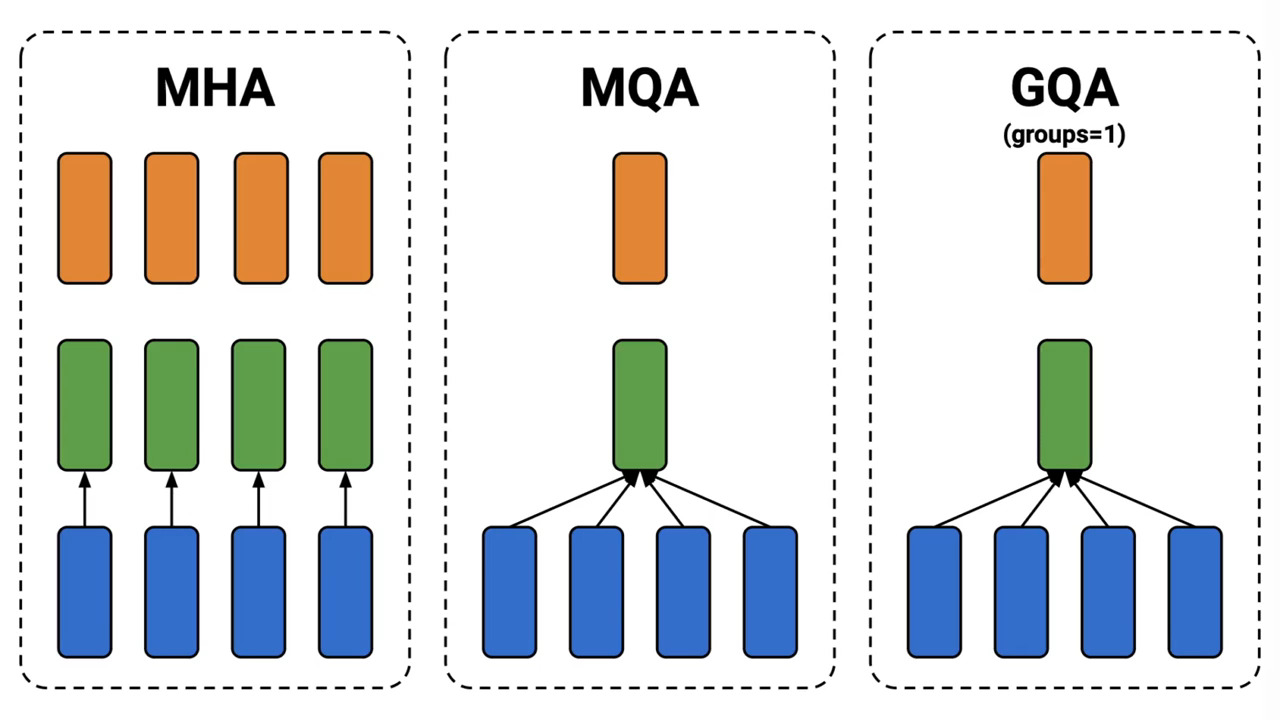
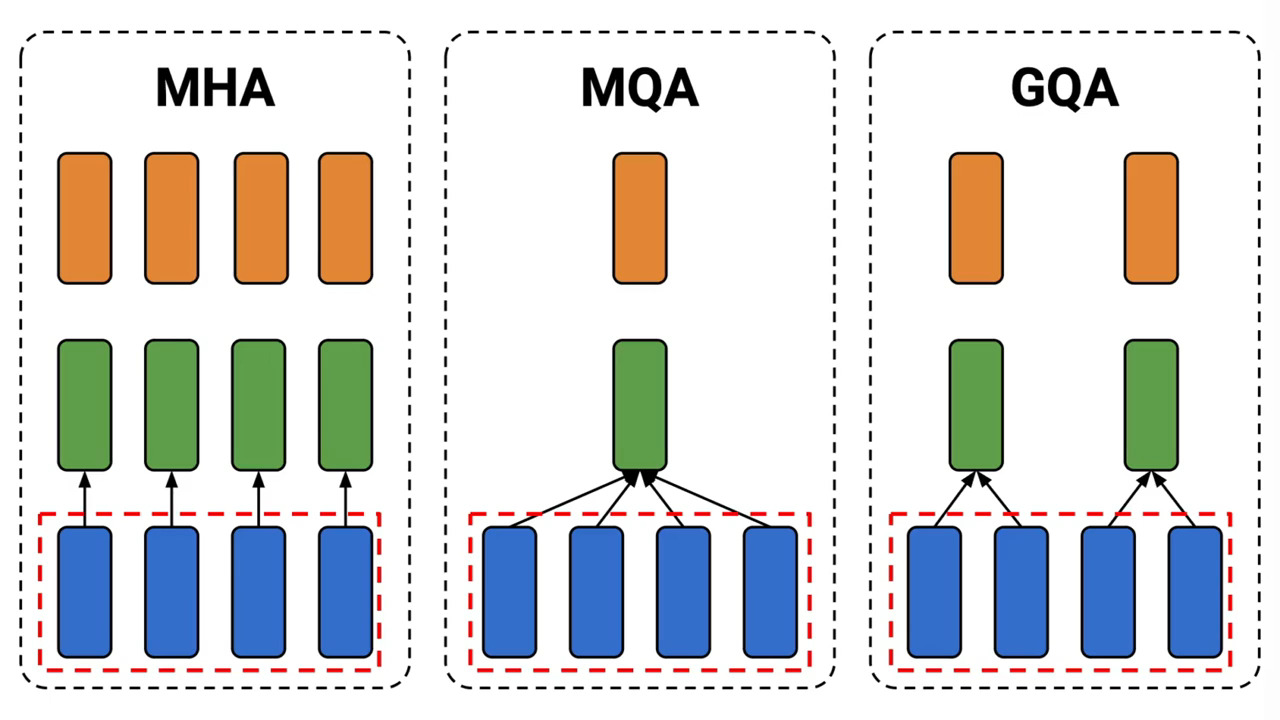
second content iteration

diff --git a/docs/personal_notes.md b/docs/personal_notes.md
@@ -11,8 +11,15 @@
 
 # **Anatomy of a Real-Life Transformer**
 ![](../assets/transformer.png)
+- **Terminology -**
+    - *"Transformer Block" - Each one of the Nx modules*
+    - *"Transformer Model" - A stack of the Transformer Blocks with an embedding layer and output head.*
+
+
 - Useful reference: Letitia - https://www.youtube.com/watch?v=BprirYymXrg
 
+
+## Attention -> Trasnformer Block
 After MHA, there is  a projection called W_O that merges the information from the various heads.
 Simply concatenating these $h$ outputs produces a tensor of shape $[B, L, h \cdot d_k] = [B, L, d_{\text{model}}]$. However, without a linear projection:
 1. **Head Isolation:** Information extracted by head $i$ remains trapped in slice $[i \cdot d_k : (i+1) \cdot d_k]$ and cannot interact with representations learned by head $j$.
@@ -28,7 +35,7 @@ Where:
 * $W^O \in \mathbb{R}^{d_{\text{model}} \times d_{\text{model}}}$
 * Output Tensor $\in \mathbb{R}^{B \times L \times d_{\text{model}}}$
 
-## Concrete Tensor Example
+### Concrete Tensor Example
 Consider a Llama 3 8B configuration:
 * Hidden dimension $d_{\text{model}} = 4096$
 * Query heads $h = 32$
@@ -39,7 +46,7 @@ Consider a Llama 3 8B configuration:
 2. Concatenating across 32 heads yields $[2, 512, 32 \times 128] = [2, 512, 4096]$.
 3. Multiplying by $W^O \in \mathbb{R}^{4096 \times 4096}$ mixes feature dimensions across all heads, outputting a tensor of $[2, 512, 4096]$ ready to be added back to the residual stream.
 
-## Residual
+### Residual
 In early deep networks, layers transformed representations sequentially ($x^{(l)} = f(x^{(l-1)})$). In ultra-deep architectures (80+ layers), this creates severe vanishing/exploding gradient problems and forces each layer to re-learn identity mappings if no transformation is needed.
 
 
@@ -61,28 +68,28 @@ $$\frac{\partial \mathcal{L}}{\partial x^{(0)}} = \frac{\partial \mathcal{L}}{\p
 The identity term $I$ guarantees that gradients flow backwards through all $L$ layers directly without decaying, eliminating the vanishing gradient wall regardless of depth.
 
 
-## Normalization
+### Normalization
 
-### Rationale: Stabilization of Activation Distributions
+#### Rationale: Stabilization of Activation Distributions
 As updates $\Delta x^{(l)}$ are repeatedly added to the residual stream, the variance of the hidden activations scales monotonically with depth ($Var(x^{(l)}) \approx Var(x^{(0)}) + \sum Var(\Delta x)$). Without normalization, deep activations explode, pushing Softmax inputs into saturated zero-gradient regimes.
 
 #TODO - brief LayerNorm explanation
 
 
-### Evolution: Post-LN vs. Pre-LN
+#### Evolution: Post-LN vs. Pre-LN
 * **Post-LayerNorm (Original Transformer):** 
   $$x^{(l)} = \text{LN}(x^{(l-1)} + f(x^{(l-1)}))$$
   Gradients passing through the normalization operator in the main residual path are scaled inversely by the norm of the activations. Near the output layer, activations are large, making early layer updates tiny. This required delicate "warm-up" learning rate schedules.
 * **Pre-LayerNorm (Modern Standard):**
   $$x^{(l)} = x^{(l-1)} + f(\text{LN}(x^{(l-1)}))$$
-  Normalization is placed exclusively on the *branch* leading into the sub-layer. The main residual path remains pure identity, enabling stable zero-warmup training of 100B+ parameter models.
+  Normalization is placed exclusively on the *branch* leading into the sub-layer. The main residual path remains pure identity, enabling stable zero-warmup training of 100B+ parameter models and larger leraning rates to be used.
+    - "the gradients are well-behaved without any exploding or vanishing for the Pre-LN Transformer both theoretically and empirically" (Xiong et al., 2020)
 
-#TODO - Dive deeper
+![](../assets/pre_post_ln.png)
+<center>(a) - Post-LN, (b) - Pre-LN</center>
 
-#TODO - add a Pre/Post LN diagram
 
-
-### RMSNorm (Root Mean Square Normalization)
+#### RMSNorm (Root Mean Square Normalization)
 Modern LLMs (Llama 3, Mistral, Qwen) replace standard LayerNorm with **RMSNorm** to improve computational speed without sacrificing variance stabilization.
 
 Standard LayerNorm computes both mean $\mu$ and variance $\sigma^2$:
@@ -100,9 +107,13 @@ Where:
 * $\gamma \in \mathbb{R}^{d_{\text{model}}}$ is a learnable scaling parameter.
 * $\epsilon$ is a small constant (e.g., $10^{-5}$) to prevent division by zero.
 
-## FFN 
+### FFN 
 
-#TODO - info about FFN and what it does
+- The attention mixes information between tokens in the sequence, and the FFN is reponsible for transforming information within the hidden dimension, for each token independently.
+- It acts as "Fact Retrieval" - you can think of $w_1$ as a memory Key matrix ($d_{\text{model}} \times d_{\text{ff}}$) where each column represents a pattern detector, $w_2$ is the memory Value matrix, where each row represents a "concept" payload to be injected back into the residual stream.
+- For example, during pre-training, when the model is repeatedly forced to predict "Paris" given "capital of France", gradient updates adjust the weights so that: 
+    - Column $i$ of $W_1$ aligns closely with the vector representation of "capital of France". 
+    - Row $i$ of $W_2$ aligns closely with the vector representation of "Paris".
 
 ### SwiGLU Activation
 - Useful References - 
@@ -110,10 +121,13 @@ Where:
 - (These functions help "dropout" in a way that is dependent on the data)
 - GELU (Gaussian Error Linear Unit) and SiLU (Sigmoid Linear Unit) are sort of a data-dependent dropout. They are derived by using x*p(x), where p(x) can be any CDF (Guassian and Sigmoid in this case). These two functions are very similar.
 
-![](../assets/swiglu.jpg)
+![](../assets/swiglu.jpg){width=2500px}
+<div align="center">
+  <img src="../assets/guessilldie.jpg" width="150">
+</div>
 
 
-### Parameter-Matching Strategy for SwiGLU
+#### Parameter-Matching Strategy for SwiGLU
 Standard ReLU FFN uses 2 matrices ($W_{\text{gate/up}}, W_{\text{down}}$) with intermediate dimension $d_{\text{ff}} = 4 d_{\text{model}}$, yielding $2 \times 4 d_{\text{model}}^2 = 8 d_{\text{model}}^2$ parameters.
 
 SwiGLU uses 3 weight matrices ($W_1, W_2, W_3$). To keep total parameters and FLOPs identical to a standard FFN, $d_{\text{ff}}$ is set to $\frac{8}{3} d_{\text{model}}$ (often rounded to the nearest multiple of 256 for GPU alignment):
@@ -123,10 +137,50 @@ $$3 \times \left( \frac{8}{3} d_{\text{model}} \times d_{\text{model}} \right) =
 In Llama 3 8B: $d_{\text{model}} = 4096 \implies d_{\text{ff}} = 14336 \approx \frac{8}{3} \times 4096$.
 
 
+### Result: Full Transformer Block
 
-## The Language Modeling Head (LM Head) & Sampling Loop
-#TODO
 
+##  Encoder-Decoder architecture and variants
+#TODO 
+### Encoder-Only (BERT)
+- Attention Mechanism: Unmasked, full Bi-Directional Self-Attention. Every token at position $i$ can attend to all other tokens at positions $j \in [1, L]$ (both past and future).
+- Objective: Masked Language Modeling (MLM) or sequence classification.
+- Primary Use Case: Producing rich contextual embeddings, feature extraction, passage reranking, and token classification.
+
+### Encoder-Decoder
+- The original paper suggested two sub-networks:
+    - Encoder which processes the input sequence concurrently, producing keys and values (run once).
+    - Decoder which generates the target sequence Y_tgt autoregressively:
+        - In the first iteration, it receives a "<START\>" token ("shifted right") and the cached K and V from the encoder, to predict the next single token: T1. In the next step, the decoder receives "<START\> T1" (its own output) and the cached K,V from the encoder, to predict T2. This goes on until the decoder itself predicts <END\>.
+        - The Encoder is essentially the "condition" upon which the decoder makes the prediction.
+### Decoder-Only (GPT/Llama)
+- Attention Mechanism: Causal (Masked) Self-Attention. Token $i$ can attend only to past and current positions $j \le i$.
+- No Cross-Attention: Eliminates the Encoder-Decoder attention sub-layer entirely. Each block contains exactly two sub-layers (Causal MHA + FFN).
+- Objective: Autoregressive Next-Token Prediction ($P(x_t \mid x_{<t})$).
+- Primary Use Case: General-purpose Large Language Models (LLMs), instruction following, and open-ended text generation.
+
+
+To enforce causality during parallel training and prefill processing, an upper-triangular masking matrix $M \in \mathbb{R}^{L \times L}$ sets future logit positions to $-\infty$ prior to the Softmax operation:
+
+$$
+M_{i,j} = \begin{cases}
+0 & \text{if } i \ge j \\
+-\infty & \text{if } i < j
+\end{cases}
+$$
+
+$$
+CausalAttention(Q, K, V) = \text{softmax}\left(\frac{Q K^T}{\sqrt{d_k}} + M\right) V
+$$
+
+When $M_{i,j} = -\infty$, $\exp(-\infty) = 0$, completely blocking information leakage from future tokens $j > i$.
+
+
+## Language Modeling and Generation #TODO
+
+### Causal Masking?
+
+### LM Head
 After passing through all $L$ Transformer blocks, the final hidden state tensor $x^{(L)} \in \mathbb{R}^{B \times L \times d_{\text{model}}}$ represents the fully contextualized sequence representations.
 
 To turn these representations into token predictions, the final vector at the last sequence position $t$, $x_t^{(L)} \in \mathbb{R}^{d_{\text{model}}}$, must be mapped to probability distributions over a discrete vocabulary $V$.
@@ -142,23 +196,57 @@ graph TD
 ```
 
 
-### 2. Softmax & Temperature Scaling
+### Softmax & Temperature Scaling
 Raw logits $z_t$ are scaled by a scalar **Temperature** parameter $T > 0$ before computing Softmax probabilities:
 
 $$P(x_{t+1} = i \mid x_{1:t}) = \frac{\exp(z_{t, i} / T)}{\sum_{j=1}^{|V|} \exp(z_{t, j} / T)}$$
 
 #### Mathematical Behavior of Temperature $T$:
-* **$T \to 0$ (Greedy / Deterministic):** The maximum logit dominates completely ($P(x_{t+1} = \arg\max z_t) \to 1$). The model always picks the single most likely token.
-* **$T = 1.0$ (Standard Softmax):** Preserves the exact learned probability distribution of the model.
-* **$T > 1.0$ (High Entropy / Creative):** Flattens the logit landscape toward a uniform distribution ($P(x_{t+1}) \to \frac{1}{|V|}$), increasing sample variance and hallucination risk.
+* **$T \to 0$ (Greedy / Deterministic):** 
+    * The maximum logit dominates completely ($P(x_{t+1} = \arg\max z_t) \to 1$). 
+    * The model always picks the single most likely token, which leads to repetitive loops, factual rigidity, and generic responses.
+* **$T = 1.0$ (Standard Softmax):**
+    * Preserves the exact learned probability distribution of the model. 
+    * Samples from the full vocabulary long-tail. Extremely low-probability tokens (e.g., typos or rare words) will eventually be sampled, degrading coherence over long generations.
+* **$T > 1.0$ (High Entropy / Creative):** 
+    * Flattens the logit landscape toward a uniform distribution ($P(x_{t+1}) \to \frac{1}{|V|}$), increasing sample variance and hallucination risk.
 
 #TODO - why would we use this?
 
 
-- #TODO Explain Encoder-Decoder architecture
+### Temperature + Nucleus (Top-$p$) Sampling Mechanics
+Nucleus Sampling dynamically adapts the candidate pool based on model confidence:
+
+```mermaid
+graph TD
+    A["Raw Logits zₜ"] --> B["1. Temperature Scaling (zₜ / T)"]
+    B --> C["2. Softmax Probability Distribution P"]
+    C --> D["3. Sort Probabilities Descending"]
+    E["Top-p Threshold (e.g., p=0.9)"] --> F["4. Truncate Cumulative Sum ≤ p"]
+    D --> F
+    F --> G["5. Renormalize Remaining Tokens"]
+    G --> H["6. Categorical Sampling"]
+```
+Dynamic Behavior: When the model is uncertain (e.g., creative writing), probabilities are distributed broadly, so Nucleus sampling keeps many tokens ($k$ is large). When the model is very confident (e.g., factual queries), $P(i_1)$ alone might be $0.92$, so for $p$=0.9, $k=1$ and it automatically acts like greedy decoding!
 
 
 
+## LLM Execution Phases
+During inference, a Decoder-Only LLM executes in two distinct operational phases that exhibit radically different computational bottlenecks and hardware performance profiles.
+### Prefill
+- Processing input prompt in parallel. This is done by  Matrix-Matrix multiplications (GEMM) of shape $[B, L_{\text{prompt}}, d_{\text{model}}] \times [d_{\text{model}}, d_{\text{out}}]$.
+- The attention mask is causal - #TODO - understand exactly why?
+
+### Decode
+- Generates output tokens serially, one step at a time ($L_{\text{step}} = 1$). The output token from step $t$ becomes the input token for step $t+1$.
+- This is done by Matrix-Vector multiplications (GEMV) of shape $[B, 1, d_{\text{model}}] \times [d_{\text{model}}, d_{\text{out}}]$.
+- Memory (short) Background:
+    - VRAM - main off-chip memory, on which model parameters and KV-cache are stored. Large (80
+    GB) but transfer is capped at 3TB/s.
+    - SRAM - Ultra-fast memory located directly next to the GPU. Operates at ~10x speed of VRAM, but very small (~50MB total).
+- For every single token generated, the GPU must fetch all model weights (e.g., 14-16 GB for an 8B FP16 model) from VRAM into fast SRAM caches. This means the GPU cores are mostly idle, only to perform a tiny number of calculations on a single vector. 
+
+#TODO - context window?
 
 ## KV Cache:
 - Useful References - 
@@ -205,21 +293,23 @@ $$P(x_{t+1} = i \mid x_{1:t}) = \frac{\exp(z_{t, i} / T)}{\sum_{j=1}^{|V|} \exp(
 ![](../assets/gqa.jpg)
 #TODO - expand
 
----
-- DeepSeep improvement??? (https://www.youtube.com/watch?v=9y-0rpEnPrg) - MLA? (Latent Attention)
+
+### DeepSeep improvement??? (https://www.youtube.com/watch?v=9y-0rpEnPrg) - MLA? (Latent Attention)
     - MLA as a low-rank compression technique (compressing $K$ and $V$ into a tiny latent vector $c_t^{KV}$ via joint projection), showing how state-of-the-art architectures compress the cache even further without sacrificing MHA-level representation power.
 
-![](../assets/attn_sbs.jpg)#TODO-replace image!(G!=1)
+![](../assets/attn_sbs.jpg)
 
 ![](../assets/attn_performance.jpg)
+
 ![](../assets/llms_with_gqa.jpg)
 
 - Should mention?: training with MQA/GQA from scratch is unstable, so authors proposed training on MHA, then converting to MQA/GQA (by mean-pooling K-projections within groups) and finally training for a few steps more. Mean pooling proved better than taking the first key or taking a randomly-selected key from the group.
 
-- Paged Attention?
+#### Paged Attention?
 
-- Flash Attention? #TODO
+### Flash Attention? #TODO
     - https://www.youtube.com/watch?v=RcFrRqcV4ZA
+
     - The Problem: Standard attention computes $A = \text{softmax}(QK^T / \sqrt{d})V$. Storing that intermediate $N \times N$ attention matrix $A$ in High Bandwidth Memory (HBM) creates an $O(N^2)$ memory footprint and makes attention memory-bandwidth bound rather than compute-bound.The Solution: FlashAttention uses tiling (online softmax) to compute attention block-by-block inside fast SRAM on the GPU chip without ever writing the massive $N \times N$ matrix back to HBM.The Takeaway: While GQA saves VRAM space, FlashAttention gives you raw wall-clock speedup and exact (non-approximated) attention computation.
 
 
@@ -227,7 +317,7 @@ $$P(x_{t+1} = i \mid x_{1:t}) = \frac{\exp(z_{t, i} / T)}{\sum_{j=1}^{|V|} \exp(
 
 # More Cool stuff
 
-- https://hfviewer.com/ - architectures and glossary
+## https://hfviewer.com/ - architectures and glossary
     - Any model on HuggingFace can be visualized - simply replace the url
     - Transformer Block: https://hfviewer.com/glossary/transformer-block/
     - GQA: https://hfviewer.com/glossary/grouped-query-attention/

diff --git a/docs/appendixB_Prefix_LM.md b/docs/appendixB_Prefix_LM.md
@@ -1,0 +1,30 @@
+# Prefix-LM vs. Decoder-Only: Why Prefix-LM Lost
+
+<code> I tried asking why decoder-only architecture can't use bi-directional attention for input-prompt prefill phase and then causal-masking for the generated output.   
+Turns out this was tried and was less preferred than decoder-only.  
+TL;DR - 1. Decoder-only uses the data more efficiently in training, 2. There is Prefix Caching (sharing prompt KV caches across different user requests that start with the same system prompt)
+</code>
+
+### Here is the answer from Gemini when discussin this subject:
+
+The exact architecture you are proposing is called Prefix-LM (used in models like PaLM's 20B variant, T5's encoder-decoder reformulation, or UniLM).                      
+
+PREFIX-LM ATTENTION MASK
+                      
+               Prompt Tokens          Generated Tokens
+              ["The", "cat", "sat"]      ["on", "the"]
+  
+  ["The"]      [  1     1     1  ]     [  0     0  ]  <-- Bi-directional
+  ["cat"]      [  1     1     1  ]     [  0     0  ]  <-- Bi-directional
+  ["sat"]      [  1     1     1  ]     [  0     0  ]  <-- Bi-directional
+  ──────────────────────────────────────────────────
+  ["on"]       [  1     1     1  ]     [  1     0  ]  <-- Causal
+  ["the"]      [  1     1     1  ]     [  1     1  ]  <-- Causal
+
+
+
+While Prefix-LM gives slightly better representations for the prompt, the industry abandoned it for pure Decoder-Only causal models due to two practical realities:
+
+A. Pre-training Data Efficiency (The "Any-Point Cut" Advantage)In pure Causal Decoder training, every single token in a 100-billion-token text corpus acts as a training target. If you feed a 4,096-token document into Llama, the model computes 4,095 next-token prediction losses in a single parallel GPU forward pass.In Prefix-LM training, prompt tokens are masked out from the loss calculation (since they attend bi-directionally, predicting them would be trivial cheating). You only compute loss on the generation suffix.Result: Causal models get $2\times$ to $3\times$ more training signal per byte of text, making them vastly more sample-efficient during expensive multi-million-dollar pre-training runs.
+
+B. Continuous Batching & KV Cache Sharing in ProductionModern LLM serving engines (vLLM, TensorRT-LLM) rely on Prefix Caching (sharing prompt KV caches across different user requests that start with the same system prompt).With Causal Prefill, the KV cache for the system prompt "You are a helpful assistant..." is identical regardless of what user query follows it, because early tokens never look forward to later tokens.With Bi-directional Prefill, if two users send slightly different prompt extensions after the system prompt, the bi-directional attention causes the system prompt's KV vectors to change! This makes cross-request KV cache sharing and multi-turn conversation caching significantly harder to implement efficiently.
